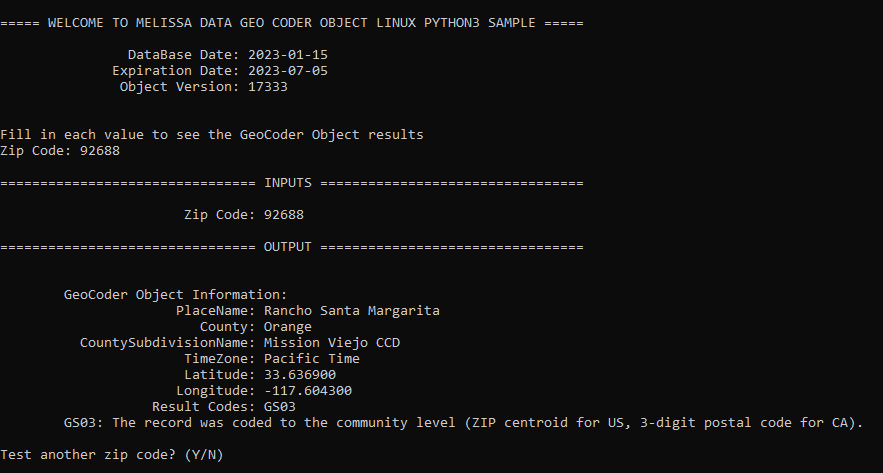
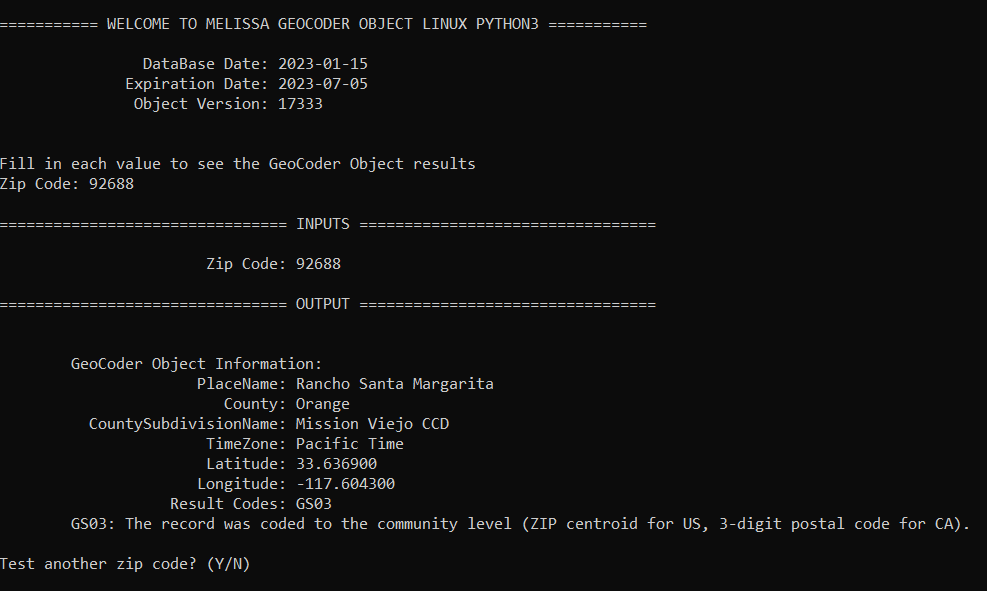
Commit Python3 code for GeoCoder Object with release notes

diff --git a/MelissaGeoCoderObjectLinuxPython3/MelissaGeoCoderObjectLinuxPython3.py b/MelissaGeoCoderObjectLinuxPython3/MelissaGeoCoderObjectLinuxPython3.py
@@ -33,7 +33,7 @@ class GeoObject:
         print(f"              Expiration Date: {self.md_geo_obj.GetLicenseExpirationDate()}")
       
         """
-        This number should match with file properties of the Melissa Data Object binary file.
+        This number should match with file properties of the Melissa Object binary file.
         If TEST appears with the build number, there may be a license key issue.
         """
         print(f"               Object Version: {self.md_geo_obj.GetBuildNumber()}\n")
@@ -45,8 +45,8 @@ class GeoObject:
         result_codes = self.md_geo_obj.GetResults()
 
         """ 
-        ResultsCodes explain any issues geo object has with the object.
-        List of result codes for GeoCoder object
+        ResultsCodes explain any issues GeoCoder Object has with the object.
+        List of result codes for GeoCoder Object
         https://wiki.melissadata.com/?title=Result_Code_Details#GeoCoder_Object
         """
 
@@ -74,7 +74,7 @@ def parse_arguments():
     return (license, test_zip, data_path)
 
 def run_as_console(license, test_zip, data_path):
-    print("\n\n===== WELCOME TO MELISSA DATA GEOCODER OBJECT LINUX PYTHON3 SAMPLE ======\n")
+    print("\n\n=========== WELCOME TO MELISSA GEOCODER OBJECT LINUX PYTHON3 ===========\n")
 
     geo_object = GeoObject(license, data_path)
 
@@ -138,7 +138,7 @@ def run_as_console(license, test_zip, data_path):
             
               print("Invalid Response, please respond 'Y' or 'N'")
 
-    print("\n============ THANK YOU FOR USING MELISSA DATA PYTHON3 OBJECT ============\n")
+    print("\n============== THANK YOU FOR USING MELISSA PYTHON3 OBJECT ===============\n")
     
 
 

diff --git a/MelissaGeoCoderObjectLinuxPython3/mdGeo_pythoncode.py b/MelissaGeoCoderObjectLinuxPython3/mdGeo_pythoncode.py
@@ -6,9 +6,9 @@ import os
 dir = os.getcwd()
 
 if (os.name == 'nt'):
-  lib = ctypes.CDLL(f'{dir}/MelissaDataGeoCoderObjectWindowsPython3Sample/mdGeo.dll')
+  lib = ctypes.CDLL(f'{dir}/MelissaGeoCoderObjectWindowsPython3/mdGeo.dll')
 else:
-  lib = ctypes.CDLL(f'{dir}/MelissaDataGeoCoderObjectLinuxPython3Sample/libmdGeo.so')
+  lib = ctypes.CDLL(f'{dir}/MelissaGeoCoderObjectLinuxPython3/libmdGeo.so')
 
 lib.mdGeoCreate.argtypes = []
 lib.mdGeoCreate.restype = c_void_p

diff --git a/README.md b/README.md
@@ -1,8 +1,12 @@
-# Melissa Data GeoCoder Object Linux Python3 Sample
+# Melissa - GeoCoder Object Linux Python3
 
 ## Purpose
 
-This is a sample of the Melissa Data GeoCoder Object using Python3
+This code showcases the Melissa GeoCoder Object using Python3
+
+Please feel free to copy or embed this code to your own project. Happy coding!
+
+For the latest Melissa GeoCoder Object release notes, please visit: https://releasenotes.melissa.com/on-premise-api/geocoder-object/
 
 The console will ask the user for:
 
@@ -36,7 +40,7 @@ For Canada:
 
 #### libmdGeo.so
 
-This is the c++ code of the Melissa Data Object.
+This is the c++ code of the Melissa Object.
 
 #### Data File(s)
   - mdGeoCode.db3
@@ -46,23 +50,13 @@ These instructions will get you a copy of the project up and running on your loc
 
 This project is compatible with Python3
 
-#### Install the Python3
+#### Install Python3
 Before starting, make sure that Python3 has been correctly installed on your machine and your environment paths are configured. 
 
 You can download Python here: 
 https://www.python.org/downloads/
 
-To set up your Path correctly to use the python3 command, execute the following steps:
-1) Run Powershell as an administrator 
-2) Execute the command: 
-`New-Item -ItemType SymbolicLink -Path "Link" -Target "Target"`
-
-    where "Target" is the path to py.exe (by default this should be "C:\Windows\py.exe")\
-    and "Link" is the path to py.exe, but "py.exe" is replaced with "python3.exe"\
-    For Example:\
-    `New-Item -ItemType SymbolicLink -Path "C:\Windows\python3.exe" -Target "C:\Windows\py.exe"`
-
-If you are unsure, you can check by opening a command prompt window and typing the following:
+You can check that your environment is set up correctly by opening a command prompt window and typing the following:
 `python3 --version`
 
 ![alt text](/screenshots/python_version.PNG)
@@ -105,26 +99,26 @@ Melissa Updater is a CLI application allowing the user to update their Melissa a
 
 #### Different ways to get data file(s)
 1.  Using Melissa Updater
-	- It will handle all of the data download/path and dll(s) for you. 
-2.  If you already have the latest DQS Release (ZIP), you can find the data file(s) and dll(s) in there
-	- Use the location of where you copied/installed the data and update the "$DataPath" variable in the powershell script.
-	- Copy all the dll(s) mentioned above into the `MelissaDataGeoCoderObjectLinuxPython3Sample` project folder.
+	- It will handle all of the data download/path and .so file(s) for you. 
+2.  If you already have the latest DQS Release (ZIP), you can find the data file(s) and .so file(s) in there
+	- Use the location of where you copied/installed the data and update the "DataPath" variable in the bash script.
+	- Copy all the .so file(s) mentioned above into the `MelissaGeoCoderObjectLinuxPython3` project folder.
 	
 ----------------------------------------
 #### Change Bash Script Permissions
 To be able to run the bash script, you must first make it an executable using the command:
 
-`chmod +x MelissaDataGeoCoderObjectLinuxPython3Sample.sh`
+`chmod +x MelissaGeoCoderObjectLinuxPython3.sh`
 
 Then you need to add permissions to the build directory with the command:
 
-`chmod +rwx MelissaDataGeoCoderObjectLinuxPython3Sample`
+`chmod +rwx MelissaGeoCoderObjectLinuxPython3`
 
 As an indicator, the filename will change colors once it becomes an executable.
 
-You may also need to alter permissions for the python files. To do this navigate into the MelissaDataGeoCoderObjectLinuxPython3Sample directory and run these commands: \
-`chmod +rx MelissaDataGeoCoderObjectLinuxPython3Sample/MelissaDataGeoCoderObjectLinuxPython3Sample.py` \
-`chmod +rx MelissaDataGeoCoderObjectLinuxPython3Sample/mdGeo_pythoncode.py`
+You may also need to alter permissions for the python files. To do this navigate into the MelissaGeoCoderObjectLinuxPython3 directory and run these commands: \
+`chmod +rx MelissaGeoCoderObjectLinuxPython3/MelissaGeoCoderObjectLinuxPython3.py` \
+`chmod +rx MelissaGeoCoderObjectLinuxPython3/mdGeo_pythoncode.py`
 
 ## Run Bash Script
 Parameters:
@@ -136,7 +130,7 @@ Parameters:
  	
   This is convenient when you want to get results for a specific  zip code in one run instead of testing multiple zip codes in interactive mode.
 
-- --license (optional): a license string to test the geocoder object
+- --license (optional): a license string to test the GeoCoder Object
 - --quiet (optional): add to the command if you do not want to get any console output from the Melissa Updater
 
 When you have modified the script to match your data location, let's run the script. 
@@ -145,23 +139,23 @@ There are two modes:
 
 	The script will prompt the user for a zip code, then use the provided zip to test GeoCoder Object. For example:
 	```
-	$ ./MelissaDataGeoCoderObjectLinuxPython3Sample.sh
+	$ ./MelissaGeoCoderObjectLinuxPython3.sh
 	```
 	For quiet mode:
 	```
-	$ ./MelissaDataGeoCoderObjectLinuxPython3Sample.sh --quiet
+	$ ./MelissaGeoCoderObjectLinuxPython3.sh --quiet
 	```
 - Command Line
 
     You can pass a zip code in the ```--zip``` parameter and a license string in ```--license``` parameter to test GeoCoder Object. For example:
     ```
-    $ ./MelissaDataGeoCoderObjectLinuxPython3Sample.sh --zip "92688"
-    $ ./MelissaDataGeoCoderObjectLinuxPython3Sample.sh --zip "92688" --license "<your_license_string>"
+    $ ./MelissaGeoCoderObjectLinuxPython3.sh --zip "92688"
+    $ ./MelissaGeoCoderObjectLinuxPython3.sh --zip "92688" --license "<your_license_string>"
     ```
     For quiet mode:
     ```
-    $ ./MelissaDataGeoCoderObjectLinuxPython3Sample.sh --zip "92688" --quiet
-    $ ./MelissaDataGeoCoderObjectLinuxPython3Sample.sh --zip "92688" --license "<your_license_string>" --quiet
+    $ ./MelissaGeoCoderObjectLinuxPython3.sh --zip "92688" --quiet
+    $ ./MelissaGeoCoderObjectLinuxPython3.sh --zip "92688" --license "<your_license_string>" --quiet
     ```
 This is the expected output from a successful setup for interactive mode:
 
@@ -170,22 +164,22 @@ This is the expected output from a successful setup for interactive mode:
     
 ## Troubleshooting
 
-Troubleshooting for errors found while running your sample program.
+Troubleshooting for errors found while running your program.
 
 ### Errors:
 
 | Error      | Description |
 | ----------- | ----------- |
 | ErrorRequiredFileNotFound      | Program is missing a required file. Please check your Data folder and refer to the list of required files above. If you are unable to obtain all required files through the Melissa Updater, please contact technical support below. |
-| ErrorDatabaseExpired   | .db file(s) are expired. Please make sure you are downloading and using the latest release version. (If using the Melissa Updater, check powershell script for 'RELEASE_VERSION = {version}'  and change the release version if you are using an out of date release).     |
-| ErrorFoundOldFile   | File(s) are out of date. Please make sure you are downloading and using the latest release version. (If using the Melissa Updater, check powershell script for 'RELEASE_VERSION = {version}'  and change the release version if you are using an out of date release).    |
+| ErrorDatabaseExpired   | .db file(s) are expired. Please make sure you are downloading and using the latest release version. (If using the Melissa Updater, check bash script for 'RELEASE_VERSION = {version}'  and change the release version if you are using an out of date release).     |
+| ErrorFoundOldFile   | File(s) are out of date. Please make sure you are downloading and using the latest release version. (If using the Melissa Updater, check bash script for 'RELEASE_VERSION = {version}'  and change the release version if you are using an out of date release).    |
 | ErrorLicenseExpired   | Expired license string. Please contact technical support below. |
 
 
 ## Contact Us
 
 For free technical support, please call us at 800-MELISSA ext. 4
-(800-635-4772 ext. 4) or email us at tech@MelissaData.com.
+(800-635-4772 ext. 4) or email us at tech@melissa.com.
 
-To purchase this product, contact Melissa Data sales department at
+To purchase this product, contact Melissa sales department at
 800-MELISSA ext. 3 (800-635-4772 ext. 3).

diff --git a/LICENSE.md b/LICENSE.md
@@ -1,0 +1,21 @@
+MIT License
+
+Copyright (c) Melissa Data Corporation
+
+Permission is hereby granted, free of charge, to any person obtaining a copy
+of this software and associated documentation files (the "Software"), to deal
+in the Software without restriction, including without limitation the rights
+to use, copy, modify, merge, publish, distribute, sublicense, and/or sell
+copies of the Software, and to permit persons to whom the Software is
+furnished to do so, subject to the following conditions:
+
+The above copyright notice and this permission notice shall be included in all
+copies or substantial portions of the Software.
+
+THE SOFTWARE IS PROVIDED "AS IS", WITHOUT WARRANTY OF ANY KIND, EXPRESS OR
+IMPLIED, INCLUDING BUT NOT LIMITED TO THE WARRANTIES OF MERCHANTABILITY,
+FITNESS FOR A PARTICULAR PURPOSE AND NONINFRINGEMENT. IN NO EVENT SHALL THE
+AUTHORS OR COPYRIGHT HOLDERS BE LIABLE FOR ANY CLAIM, DAMAGES OR OTHER
+LIABILITY, WHETHER IN AN ACTION OF CONTRACT, TORT OR OTHERWISE, ARISING FROM,
+OUT OF OR IN CONNECTION WITH THE SOFTWARE OR THE USE OR OTHER DEALINGS IN THE
+SOFTWARE.
